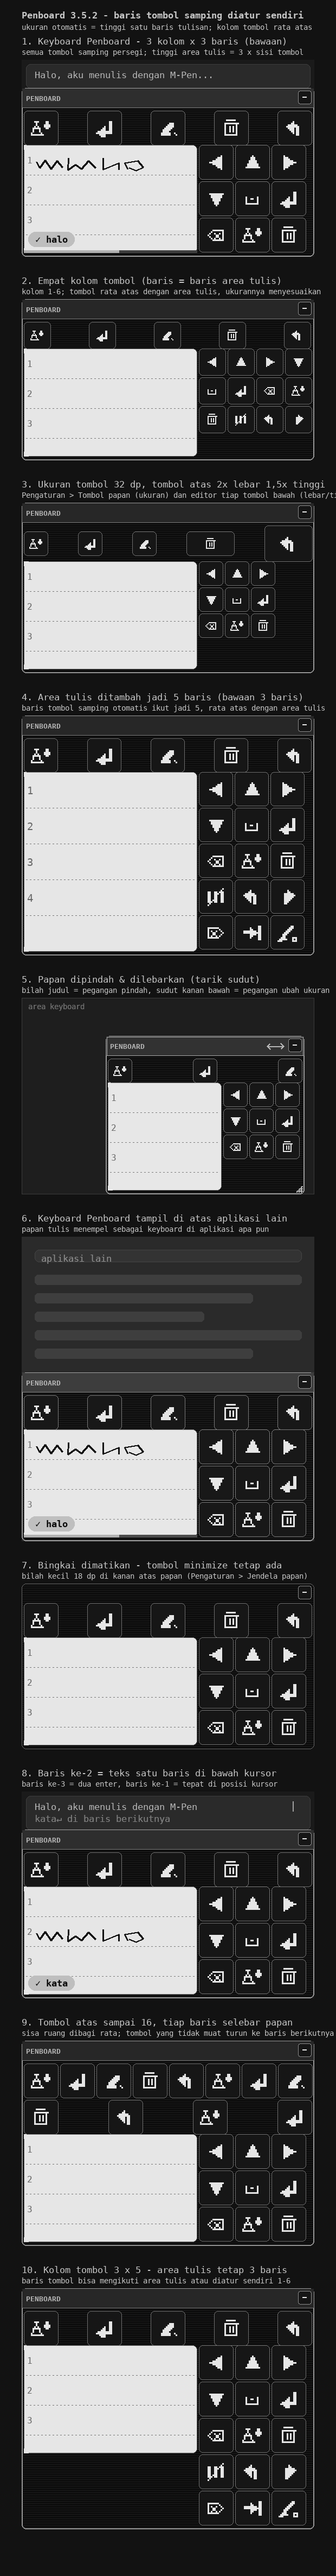
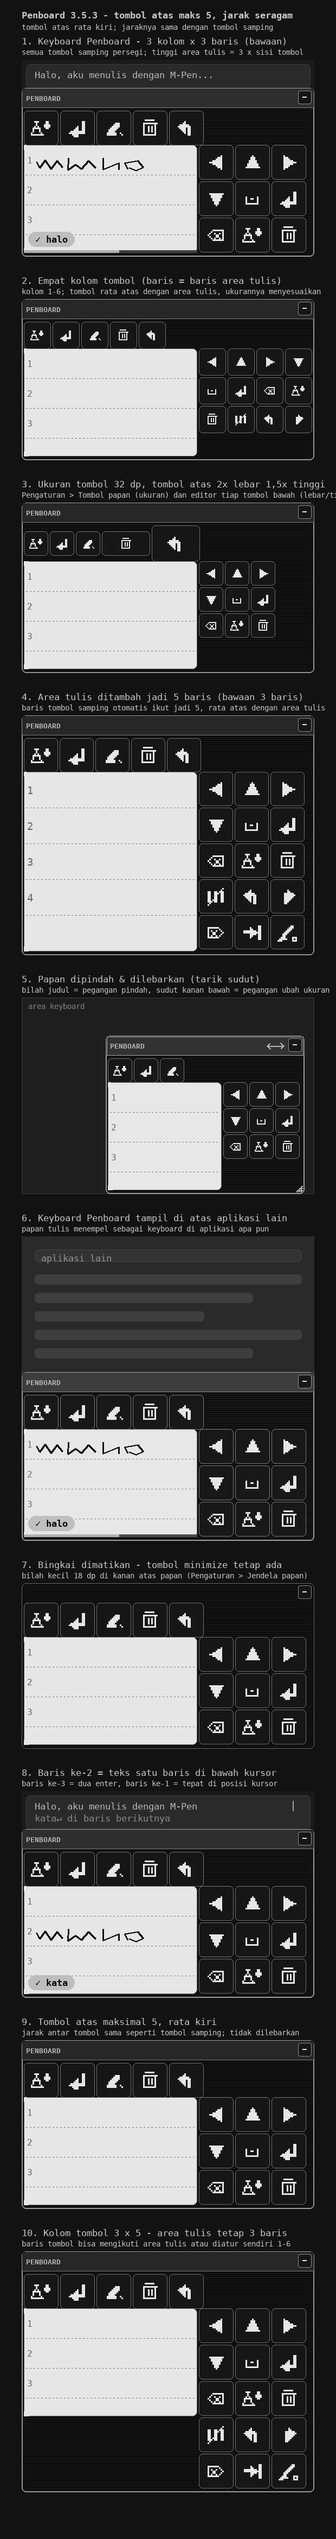
3.5.3: tombol atas maksimal 5, rata kiri dengan jarak sama seperti tombol samping

Changed region(s): [[0.0613, 0.0, 0.95, 0.4994], [0.0613, 0.5306, 0.95, 0.9987]]

diff --git a/app/src/main/java/dev/retrobit/penboard/ui/BoardPanel.kt b/app/src/main/java/dev/retrobit/penboard/ui/BoardPanel.kt
@@ -30,8 +30,8 @@ import kotlin.math.roundToInt
  * - Di atas papan ada **bingkai jendela**: bilah judul (bisa ditarik untuk memindah
  *   papan) dengan tombol minimize, dan **sudut kanan bawah** bisa ditarik untuk
  *   mengubah lebar papan sekaligus ukuran tombolnya.
- * - Di atas papan ada **bilah tombol atas** (dulu "tombol bawah"): jumlahnya sampai 16,
- *   barisnya memenuhi lebar papan, dan ukurannya mengikuti tombol samping.
+ * - Di atas papan ada **bilah tombol atas** (dulu "tombol bawah"): maksimal 5, rata
+ *   kiri dengan jarak yang sama seperti tombol samping, ukurannya mengikuti tombol samping.
  * - Ikon tombol mengikuti [PenboardConfig.iconStyle] (pixel art atau vektor).
  */
 class BoardPanel(private val context: Context) {
@@ -296,7 +296,7 @@ class BoardPanel(private val context: Context) {
         var bottomRows: List<List<Int>> = emptyList()
         var bottomRowHeights: List<Int> = emptyList()
         // 1 = sesuai pilihan pengguna. Hanya mengecil bila panel benar-benar tidak muat
-        // (mis. 16 tombol bawah dengan ukuran tombol manual yang besar).
+        // (mis. 5 tombol atas dengan ukuran tombol manual yang besar).
         var bottomScale = 1f
         fun barCell(): Int = (cell * bottomScale).roundToInt().coerceAtLeast(1)
         fun layoutBottom() {
@@ -607,18 +607,13 @@ class BoardPanel(private val context: Context) {
                 // Tombol berukuran berbeda tetap sejajar di tengah barisnya.
                 gravity = Gravity.CENTER_VERTICAL
             }
-            // Baris memenuhi lebar papan: sisa ruang dibagi rata menjadi jarak antar
-            // tombol, jadi tidak ada lagi celah kosong di ujung kanan.
-            val gaps = GridMath.bottomRowGaps(
-                indexes.map { index -> GridMath.buttonWidthPx(side, bottomMultiplier(config, index)) },
-                availableWidth,
-                spacing
-            )
+            // Tombol bersebelahan dengan jarak yang **sama seperti tombol samping**,
+            // rata kiri: tidak ada jarak yang dilebarkan untuk memenuhi lebar papan.
             for ((position, index) in indexes.withIndex()) {
                 val key = config.bottomKeys.getOrNull(index)
                     ?: defaults.getOrElse(index) { defaults.last() }
                 row.addView(
-                    buildBottomButton(config, key, side, gaps.getOrElse(position) { spacing }, index)
+                    buildBottomButton(config, key, side, if (position == 0) 0 else spacing, index)
                 )
             }
             bottomContainer.addView(

diff --git a/app/src/test/java/dev/retrobit/penboard/data/PenboardConfigTest.kt b/app/src/test/java/dev/retrobit/penboard/data/PenboardConfigTest.kt
@@ -536,14 +536,14 @@ class PenboardConfigTest {
     fun `bilah atas punya bawaan dan batas aman`() {
         val config = PenboardConfig()
         assertEquals(PenboardConfig.DEFAULT_BOTTOM_KEYS, config.bottomButtonCount)
-        // Daftar bawaan berisi 8 aksi; slot penyimpanan sampai 16 tombol.
+        // Bilah atas maksimal 5 tombol; semua slot terisi bawaan.
         assertEquals(PenboardConfig.defaultBottomKeys().size, config.bottomKeys.size)
-        assertEquals(16, PenboardConfig.MAX_BOTTOM_KEYS)
-        assertEquals(16, PenboardConfig.BOTTOM_SLOTS)
+        assertEquals(5, PenboardConfig.MAX_BOTTOM_KEYS)
+        assertEquals(5, PenboardConfig.BOTTOM_SLOTS)
         assertEquals(
             listOf(
                 KeyAction.RECOGNIZE, KeyAction.ENTER, KeyAction.DELETE_STROKE,
-                KeyAction.CLEAR, KeyAction.UNDO, KeyAction.REDO, KeyAction.CYCLE_PEN, KeyAction.HIDE
+                KeyAction.CLEAR, KeyAction.UNDO
             ),
             config.bottomKeys.map { it.action }
         )
@@ -551,11 +551,8 @@ class PenboardConfigTest {
         val many = PenboardConfig(bottomButtonCount = 99, bottomKeys = emptyList()).sanitized()
         assertEquals(PenboardConfig.MAX_BOTTOM_KEYS, many.bottomButtonCount)
         assertEquals(PenboardConfig.BOTTOM_SLOTS, many.bottomKeys.size)
-        // Slot ke-9 dan seterusnya memakai bawaan bergiliran, bukan tombol mati.
-        assertEquals(
-            PenboardConfig.defaultBottomKeys().first().action,
-            many.bottomKeys[PenboardConfig.defaultBottomKeys().size].action
-        )
+        // Daftar bawaan tidak lebih panjang dari jumlah slot.
+        assertTrue(PenboardConfig.defaultBottomKeys().size <= PenboardConfig.BOTTOM_SLOTS)
 
         // Bilah bawah bisa dimatikan seluruhnya.
         val none = PenboardConfig(bottomButtonCount = -4).sanitized()

diff --git a/app/src/test/java/dev/retrobit/penboard/util/GridMathTest.kt b/app/src/test/java/dev/retrobit/penboard/util/GridMathTest.kt
@@ -1,5 +1,6 @@
 package dev.retrobit.penboard.util
 
+import dev.retrobit.penboard.data.KeyAction
 import dev.retrobit.penboard.data.PenboardConfig
 import org.junit.Assert.assertEquals
 import org.junit.Assert.assertTrue
@@ -294,24 +295,15 @@ class GridMathTest {
     }
 
     @Test
-    fun `baris tombol atas memenuhi lebar papan`() {
-        // Tiga tombol 100 px + dua jarak 6 px = 312; sisa 168 dibagi dua = 84 per jarak.
-        assertEquals(listOf(0, 90, 90), GridMath.bottomRowGaps(listOf(100, 100, 100), 480, 6))
-        // Baris yang sudah penuh tetap memakai jarak dasar.
-        assertEquals(listOf(0, 6, 6), GridMath.bottomRowGaps(listOf(100, 100, 100), 312, 6))
-        // Satu tombol tidak punya ruang untuk dibagi; baris kosong tidak menghasilkan apa-apa.
-        assertEquals(listOf(0), GridMath.bottomRowGaps(listOf(100), 480, 6))
-        assertEquals(emptyList<Int>(), GridMath.bottomRowGaps(emptyList(), 480, 6))
-        // Lebar baris setelah dibagi = lebar panel.
-        val widths = listOf(70, 130, 70)
-        val gaps = GridMath.bottomRowGaps(widths, 540, 4)
-        assertEquals(540, widths.sum() + gaps.sum())
-    }
-
-    @Test
-    fun `bilah atas memuat sampai enam belas tombol`() {
-        assertEquals(16, PenboardConfig.MAX_BOTTOM_KEYS)
-        assertEquals(16, PenboardConfig.BOTTOM_SLOTS)
+    fun `tombol atas maksimal lima dan rata kiri`() {
+        // Batas jumlah tombol atas: 0-5.
+        assertEquals(5, PenboardConfig.MAX_BOTTOM_KEYS)
+        assertEquals(5, PenboardConfig.BOTTOM_SLOTS)
+        assertEquals(5, PenboardConfig.defaultBottomKeys().size)
+        // Semua tombol bawaan benar-benar bekerja (bukan TEXT kosong).
+        PenboardConfig.defaultBottomKeys().forEach { key ->
+            assertTrue(!(key.action == KeyAction.TEXT && key.text.isBlank()))
+        }
     }
 
     @Test

diff --git a/app/src/main/java/dev/retrobit/penboard/data/PenboardConfig.kt b/app/src/main/java/dev/retrobit/penboard/data/PenboardConfig.kt
@@ -489,11 +489,12 @@ data class PenboardConfig(
         const val MAX_GRID_KEYS = GRID_SLOTS
 
         /**
-         * Bilah tombol di atas papan tulis: 0 (disembunyikan) sampai 16 tombol.
-         * Barisnya memenuhi lebar papan; tombol yang tidak muat turun ke baris berikutnya.
+         * Bilah tombol di atas papan tulis: 0 (disembunyikan) sampai **5 tombol**.
+         * Semuanya bersebelahan dengan jarak yang sama seperti tombol samping dan
+         * rata kiri; tombol yang tidak muat turun ke baris berikutnya.
          */
         const val MIN_BOTTOM_KEYS = 0
-        const val MAX_BOTTOM_KEYS = 16
+        const val MAX_BOTTOM_KEYS = 5
         const val BOTTOM_SLOTS = MAX_BOTTOM_KEYS
         const val DEFAULT_BOTTOM_KEYS = 5
 
@@ -527,8 +528,8 @@ data class PenboardConfig(
          * keyboard konvensional, lalu tombol papan tulis.
          */
         /**
-         * Bilah **bawah papan** bawaan: aksi papan tulis yang paling sering dipakai,
-         * digambar dengan ikon pixel art ([dev.retrobit.penboard.util.PixelArt]).
+         * Bilah **atas papan** bawaan (maksimal 5): aksi papan tulis yang paling sering
+         * dipakai, digambar dengan ikon pixel art ([dev.retrobit.penboard.util.PixelArt]).
          */
         fun defaultBottomKeys(): List<KeyDef> = listOf(
             KeyDef(KeyAction.RECOGNIZE),
@@ -537,10 +538,7 @@ data class PenboardConfig(
             KeyDef(KeyAction.ENTER),
             KeyDef(KeyAction.DELETE_STROKE),
             KeyDef(KeyAction.CLEAR),
-            KeyDef(KeyAction.UNDO),
-            KeyDef(KeyAction.REDO),
-            KeyDef(KeyAction.CYCLE_PEN),
-            KeyDef(KeyAction.HIDE)
+            KeyDef(KeyAction.UNDO)
         )
 
         fun defaultGridKeys(): List<KeyDef> = listOf(

diff --git a/app/src/main/java/dev/retrobit/penboard/util/GridMath.kt b/app/src/main/java/dev/retrobit/penboard/util/GridMath.kt
@@ -240,30 +240,6 @@ object GridMath {
             .roundToInt()
             .coerceAtLeast(1)
 
-    /**
-     * Jarak kiri tiap tombol bawah pada **satu baris** supaya baris itu memenuhi
-     * seluruh lebar panel (tombol tetap sebesar yang dipilih; sisa ruang dibagi rata
-     * menjadi jarak antar tombol).
-     *
-     * Indeks pertama selalu 0 (menempel di tepi kiri). Baris berisi satu tombol tidak
-     * punya sisa ruang untuk dibagi, jadi tombolnya tetap di kiri.
-     */
-    fun bottomRowGaps(
-        widthsPx: List<Int>,
-        availableWidthPx: Int,
-        spacingPx: Int = 0
-    ): List<Int> {
-        if (widthsPx.isEmpty()) return emptyList()
-        val used = widthsPx.sum() + spacingPx * (widthsPx.size - 1)
-        val gaps = widthsPx.size - 1
-        val extra = if (gaps > 0) {
-            (availableWidthPx - used).coerceAtLeast(0) / gaps
-        } else {
-            0
-        }
-        return widthsPx.mapIndexed { index, _ -> if (index == 0) 0 else spacingPx + extra }
-    }
-
     /** Tinggi tiap baris tombol bawah: baris setinggi tombol tertinggi di baris itu
      * (tombolnya sendiri dipusatkan secara vertikal saat dipasang).
      */

diff --git a/tools/render_preview.py b/tools/render_preview.py
@@ -184,16 +184,6 @@ def max_cell_by_width(usable_width, board_width, columns, spacing_px=0):
     return max(1, (room - spacing_px * (columns - 1)) // columns)
 
 
-def bottom_row_gaps(widths, available_width, spacing_px=0):
-    """Salinan GridMath.bottomRowGaps: sisa lebar dibagi rata antar tombol."""
-    if not widths:
-        return []
-    used = sum(widths) + spacing_px * (len(widths) - 1)
-    gaps = len(widths) - 1
-    extra = max(0, available_width - used) // gaps if gaps > 0 else 0
-    return [0 if index == 0 else spacing_px + extra for index in range(len(widths))]
-
-
 def cell_size(board_height, available_width, spacing_px=0, min_cell_px=0, rows=3,
               columns=3, cell_dp=0, density=1.0, min_board_width_px=0):
     """Salinan GridMath.cellSizePx: tombol persegi, dibatasi tinggi & lebar."""
@@ -436,8 +426,7 @@ def draw_panel(lines, keys, flash=None, pending=None,
         row_h = geo["bottom_rows"][row_index]
         row_widths = [button_width_px(cell, widths[index] if widths and index < len(widths) else 1.0)
                       for index in indexes]
-        # Jarak memakai lebar isi panel (sama dengan BoardPanel), bukan lebar papan.
-        gaps = bottom_row_gaps(row_widths, panel_w - 2 * PANEL_PADDING, SPACING)
+        # Tombol bersebelahan dengan jarak tetap, sama seperti tombol samping (rata kiri).
         x_cursor = bl
         for position, index in enumerate(indexes):
             action = bottom_keys[index]
@@ -450,7 +439,7 @@ def draw_panel(lines, keys, flash=None, pending=None,
                                    outline=alpha(COL_ACCENT, 130), width=1)
             draw_pixel_icon(draw, PIXEL_ART.get(action), x_cursor + width / 2, y0 + height / 2,
                             min(width, height) * 0.62, COL_TEXT)
-            x_cursor += width + (gaps[position + 1] if position + 1 < len(gaps) else SPACING)
+            x_cursor += width + SPACING
         y_row += row_h + SPACING
 
     # tombol samping: semuanya persegi (sisi = cell)
@@ -526,7 +515,7 @@ def main():
     longer = draw_panel(5, DEFAULT_KEYS)
     ime = draw_panel(3, DEFAULT_KEYS, flash="\u2713 halo", pending=0.55)
     second_line = draw_panel(3, DEFAULT_KEYS, flash="\u2713 kata", ink_line=1)
-    many_bottom = draw_panel(3, DEFAULT_KEYS, bottom_keys=(BOTTOM_KEYS * 4)[:12])
+    many_bottom = draw_panel(3, DEFAULT_KEYS, bottom_keys=(BOTTOM_KEYS * 3)[:5])
     five_rows = draw_panel(3, DEFAULT_KEYS, rows=5)
 
     pad = 40
@@ -557,8 +546,8 @@ def main():
         ("8. Baris ke-2 = teks satu baris di bawah kursor",
          "baris ke-3 = dua enter, baris ke-1 = tepat di posisi kursor",
          ("field2", second_line)),
-        ("9. Tombol atas sampai 16, tiap baris selebar papan",
-         "sisa ruang dibagi rata; tombol yang tidak muat turun ke baris berikutnya",
+        ("9. Tombol atas maksimal 5, rata kiri",
+         "jarak antar tombol sama seperti tombol samping; tidak dilebarkan",
          ("plain", many_bottom)),
         ("10. Kolom tombol 3 x 5 - area tulis tetap 3 baris",
          "baris tombol bisa mengikuti area tulis atau diatur sendiri 1-6",
@@ -578,9 +567,9 @@ def main():
             canvas_heights.append(item.height + extra)
     canvas = Image.new("RGBA", (width, sum(canvas_heights) + 40), alpha((0x12, 0x12, 0x12), 255))
     draw = ImageDraw.Draw(canvas)
-    draw.text((pad, 18), "Penboard 3.5.2 - baris tombol samping diatur sendiri",
+    draw.text((pad, 18), "Penboard 3.5.3 - tombol atas maks 5, jarak seragam",
               font=ImageFont.truetype(FONT_BOLD, 17), fill=alpha(COL_ACCENT, 255))
-    draw.text((pad, 42), "ukuran otomatis = tinggi satu baris tulisan; kolom tombol rata atas",
+    draw.text((pad, 42), "tombol atas rata kiri; jaraknya sama dengan tombol samping",
               font=SMALL_FONT, fill=alpha(COL_ACCENT, 150))
 
     y = header

diff --git a/README.md b/README.md
@@ -2,7 +2,20 @@
 
 Papan tulis stylus bergaya **HiWrite** untuk Android, dengan tema **retro cyberpunk grayscale ePaper**. Tulis dengan Huawei M-Pen (atau stylus apa pun) di papan tulis, lalu tulisan itu berubah menjadi teks dan langsung masuk ke kolom isian aplikasi yang sedang dipakai. Bukan keyboard QWERTY: papan tulisnya lebar di kiri, tombolnya berupa **ikon** dan tersusun rapi 3 kolom di kanan.
 
-Versi terbaru: **3.5.2** (lihat [Releases](https://github.com/retrobit-dev/RetroBit-Penboard/releases) untuk berkas APK).
+Versi terbaru: **3.5.3** (lihat [Releases](https://github.com/retrobit-dev/RetroBit-Penboard/releases) untuk berkas APK).
+
+## Yang baru di 3.5.3
+
+- **Tombol atas bersebelahan dengan jarak yang sama seperti tombol samping.** Jarak antar
+  tombol tidak lagi dilebarkan untuk memenuhi lebar papan; tombolnya **rata kiri**, jadi
+  susunannya terlihat sama rapi dengan kolom tombol di kanan.
+- **Jumlah tombol atas maksimal 5** (sebelumnya 16). Slider *Jumlah tombol atas* sekarang
+  0–5, dan bila tombolnya tidak muat dalam satu baris ia turun ke baris berikutnya dengan
+  jarak yang sama.
+- Akibatnya panel lebih ringkas: bilah atas tidak lagi mengambil banyak tinggi, dan area
+  tulis tetap lega.
+- Pratinjau `docs/preview.png` contoh ke-9 diperbarui: **5 tombol atas rata kiri** dengan
+  jarak seragam.
 
 ## Yang baru di 3.5.2
 
@@ -31,10 +44,9 @@ Versi terbaru: **3.5.2** (lihat [Releases](https://github.com/retrobit-dev/Retro
   dan tombol otomatis mengecil secukupnya. Nilai ini juga menjadi batas aman supaya tombol
   manual tidak menekan area tulis sampai keluar panel (`GridMath.boardWidthFor`,
   `GridMath.maxCellByWidthPx`, diuji unit).
-- **Tombol atas bisa ditambah sampai 16** (sebelumnya 8) dan **setiap baris memenuhi lebar
-  papan**: sisa ruang dibagi rata menjadi jarak antar tombol, jadi tidak ada celah kosong di
-  ujung kanan. Tombol yang tidak muat turun ke baris berikutnya.
-- **Papan tetap utuh walau tombol atas banyak.** Bila 16 tombol tidak muat, bilah atas
+- **Tombol atas bisa ditambah sampai 16** (sebelumnya 8); batas ini kemudian diubah menjadi
+  **5 tombol** di 3.5.3 dengan jarak seragam seperti tombol samping.
+- **Papan tetap utuh walau tombol atas banyak.** Bila bilah atas tidak muat, bilahnya
   mengecil bertahap (sampai 40 %) sebelum area tulis dikorbankan; kalau tetap tidak muat,
   ukuran tombol samping dibatasi ruang yang tersisa. Jumlah baris bilah dihitung ulang dengan
   ukuran tombol final, jadi tinggi panel tidak pernah "menipu" (`BoardPanel.applyConfig`).
@@ -262,7 +274,7 @@ Versi terbaru: **3.5.2** (lihat [Releases](https://github.com/retrobit-dev/Retro
 +-----------------------------------------------------+-----------------+
 |  PENBOARD                               [<-->] [ - ]| tarik = pindah  |
 +-----------------------------------------------------+-----------------+
-|  [A+][enter][hapus][bersih][batal][undo]... (maks 16)|  tombol atas    |
+|  [A+][enter][hapus][bersih][batal]   (maks 5)        |  tombol atas    |
 +-----------------------------------------------------+-----------------+
 |  TEPI ATAS PAPAN = TEPI ATAS TOMBOL        |  [<-]  |  [^]  |  [->]  |   baris 1
 |                                            | (kotak | (kotak| (kotak |           <- sisi tombol
@@ -293,9 +305,10 @@ dilewati. Bisa dimatikan di pengaturan papan.
 
 Bilah judul berisi judul jendela + tombol minimize, dan dipakai sebagai **pegangan untuk
 memindahkan papan**. **Tombol atas** berada di dalam bingkai yang sama, **di atas area
-menulis** (tepat di bawah bilah judul), sampai **16 tombol**; setiap barisnya memenuhi lebar
-papan dan ukuran dasarnya mengikuti tombol samping, tetapi **lebar dan tinggi tiap tombol bisa
-diatur sendiri**; isinya bebas diatur (lihat **Pengaturan yang tersedia**).
+menulis** (tepat di bawah bilah judul), maksimal **5 tombol**; tombolnya **rata kiri** dengan
+jarak yang sama seperti tombol samping (tidak dilebarkan memenuhi papan) dan ukuran dasarnya
+mengikuti tombol samping, tetapi **lebar dan tinggi tiap tombol bisa diatur sendiri**; isinya
+bebas diatur (lihat **Pengaturan yang tersedia**).
 
 Tinggi papan menyesuaikan ruang yang disediakan keyboard: kalau layar tidak cukup untuk
 bingkai + bilah judul + tombol bawah + semua baris tulisan, **jarak baris dan ukuran tombol
@@ -352,7 +365,7 @@ punya polanya sendiri) — bawaan sejak 3.2.0. Bila ingin ikon bergaris halus se
 | Tampilan | **tema retro cyberpunk grayscale ePaper** (satu tombol), garis pindaian, **gaya ikon tombol (pixel art / vektor)**, transparansi panel/papan/tombol 0–100%, warna panel/papan/garis/tombol/teks tombol/aksen, lengkung sudut |
 | Tombol samping pena | aksi klik dan aksi kedua, dari 7 pilihan |
 | Jendela papan | bingkai jendela on/off, tombol minimize on/off (tetap ada sebagai bilah kecil bila bingkainya dimatikan), judul jendela (bawaan `PENBOARD`), **papan bisa dipindah / diangkat** (tarik bilah judul), **lebar papan 45–100 %** (atau tarik sudut kanan bawah), **lebar area tulis 40–80 %** |
-| Tombol atas | tampil/tidak, **jumlah 0–16**, **setiap baris memenuhi lebar papan**, aksi + label + tahan-untuk-mengulang + **lebar 0,6x–4x** dan **tinggi 0,6x–2x** tiap tombol (dasar = ukuran tombol samping, letaknya di dalam bingkai **di atas** area menulis), kembali ke bawaan (A+, enter, hapus goresan, bersihkan papan, batal) |
+| Tombol atas | tampil/tidak, **jumlah 0–5**, **rata kiri dengan jarak sama seperti tombol samping**, aksi + label + tahan-untuk-mengulang + **lebar 0,6x–4x** dan **tinggi 0,6x–2x** tiap tombol (dasar = ukuran tombol samping, letaknya di dalam bingkai **di atas** area menulis), kembali ke bawaan (A+, enter, hapus goresan, bersihkan papan, batal) |
 
 Tombol panah kursor, papan klip, tab, dan hapus di depan kursor bekerja saat keyboard Penboard aktif — semuanya memerlukan kolom isian.
 
